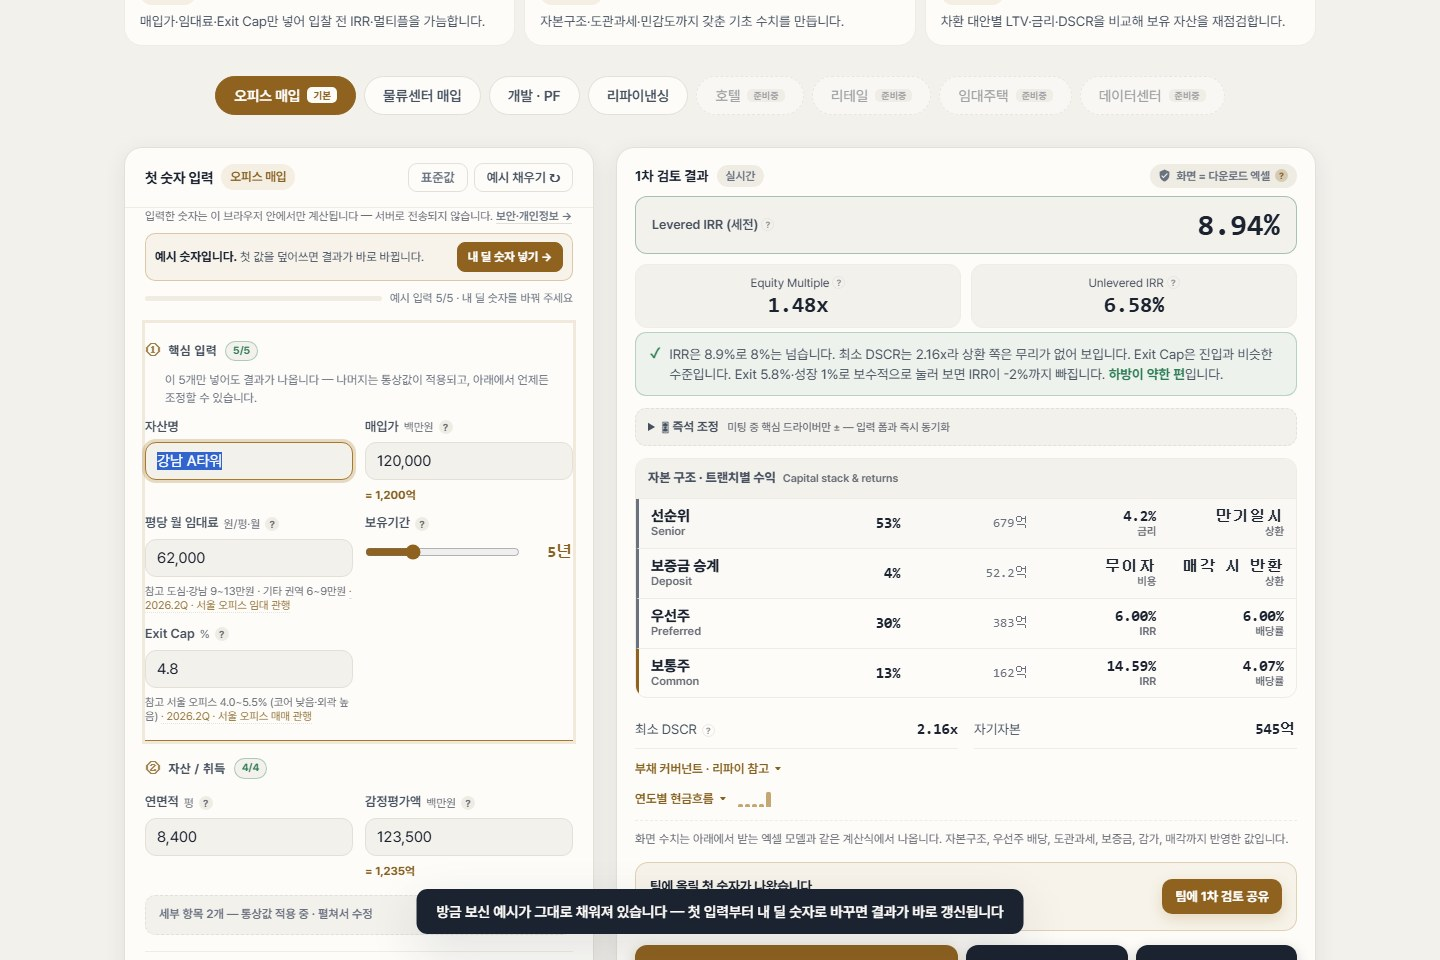
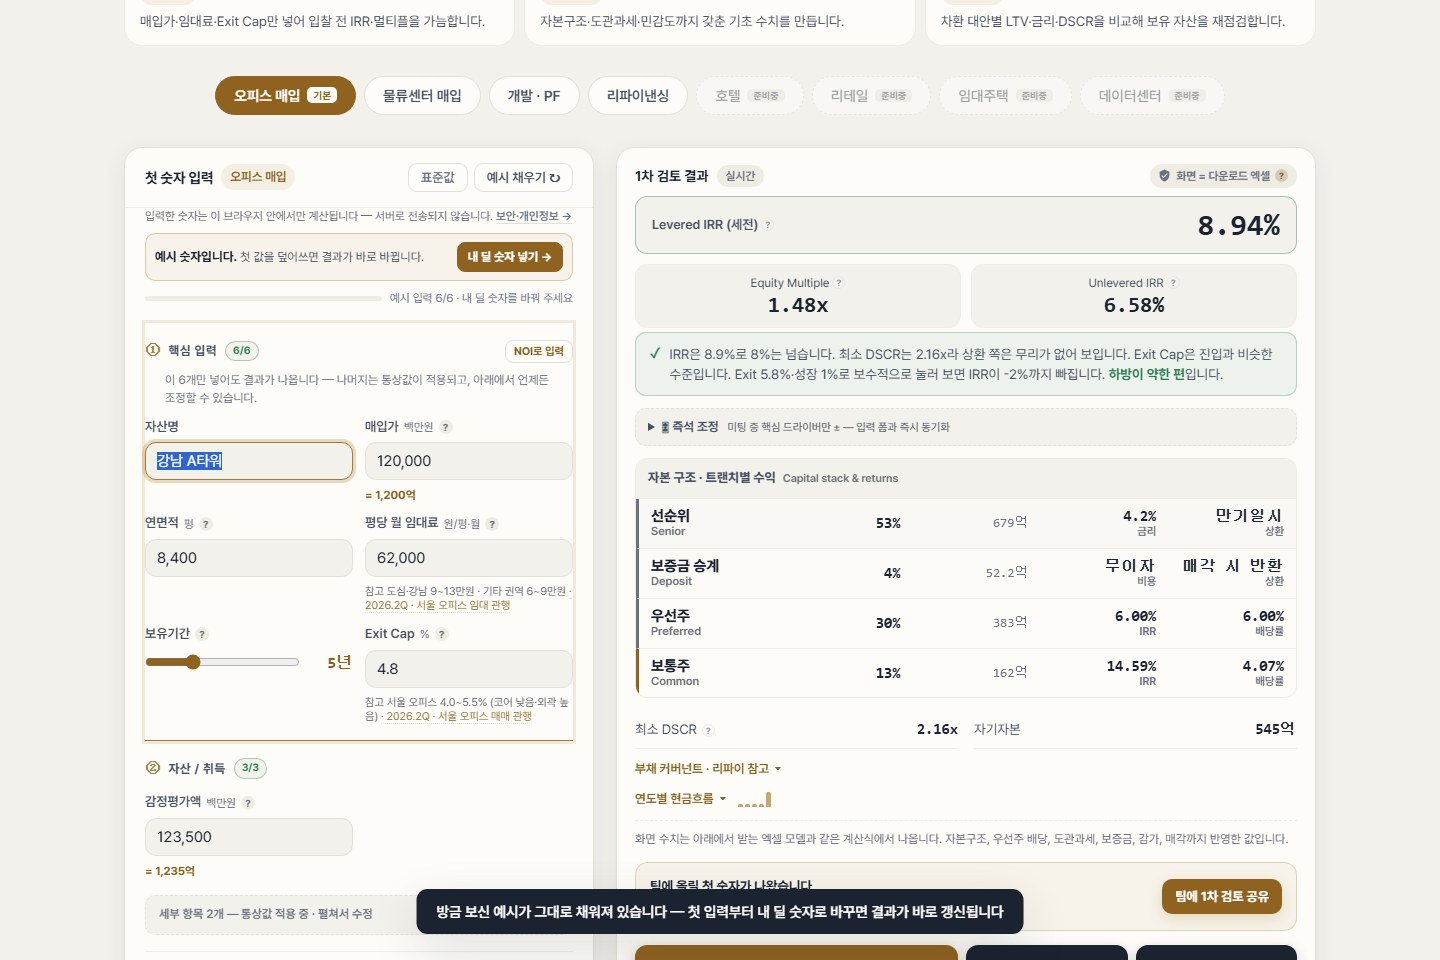
네이버 게시 화면을 최신 첫 입력 동선으로 갱신

diff --git a/dart-search/web/modelter/verification.html b/dart-search/web/modelter/verification.html
@@ -69,7 +69,7 @@ try{if(!sessionStorage.getItem('mt_ref0')&&document.referrer){var _rh=new URL(do
     <div class="eyebrow">재현성 · 파리티 공표</div>
     <h1>화면 = 다운로드 엑셀,<br>직접 재현해 확인하세요.</h1>
     <p class="lead">모델터는 화면에 보이는 수치와 내려받는 엑셀의 수식이 같은 결과를 낸다고 말합니다. 그 주장을 개발자 말이 아니라 <b>제3자가 재계산해 검증할 수 있는 공개 증거</b>로 둡니다. 아래는 파이썬 <code>formulas</code> 라이브러리로 엑셀 수식을 독립 재계산해 화면 계산값과 대조한 결과와, 누구나 따라 할 수 있는 재현 절차입니다.</p>
-    <div class="build">빌드 <b>2026-08-16·8489353cd9</b> · git d45854c · 2026-08-16</div>
+    <div class="build">빌드 <b>2026-08-16·8489353cd9</b> · git cf5f636 · 2026-08-16</div>
   </div>
 
   <section>
